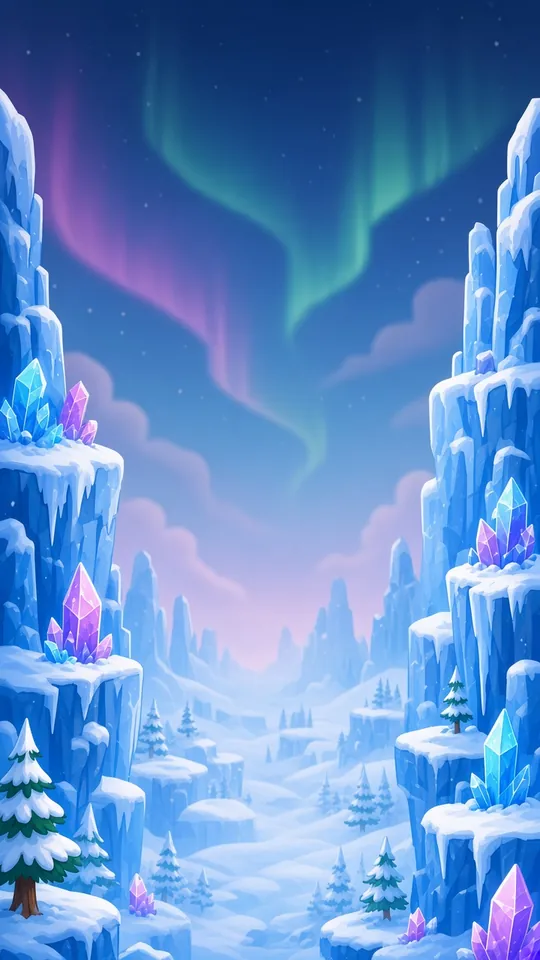
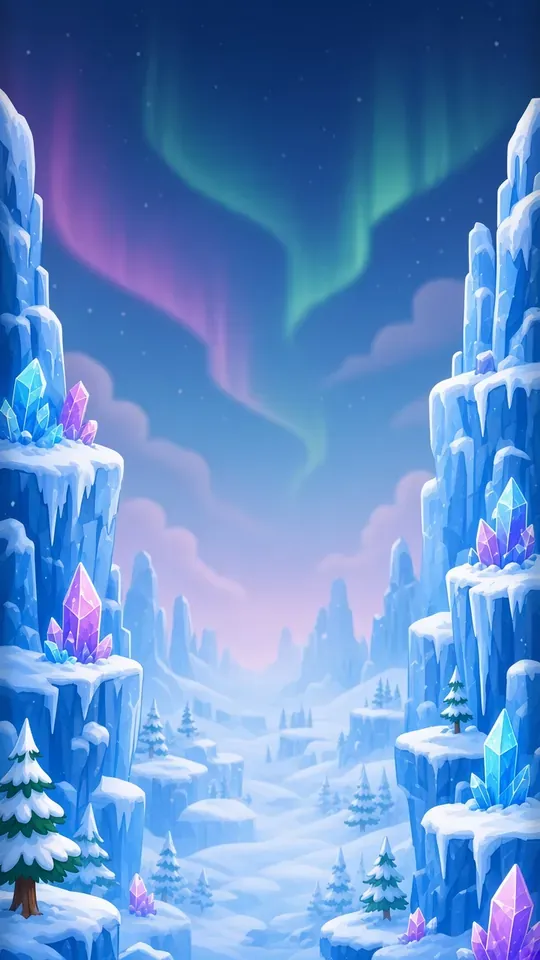
Nahraď prostredia art packom v2.
Kryštály sú bez stromčekov, dúha má ploché pásy a plošiny clouds, hell, candy, gold a rainbow majú vlastný obrys alebo spoj. Všetky pozadia majú jemnú bočnú vinetáciu.

diff --git a/assets/art-pack/envs-MANIFEST.md b/assets/art-pack/envs-MANIFEST.md
@@ -3,12 +3,14 @@
 Sada pozadí a plošín pre 14 prostredí. **Neintegrované do repa** — integráciu robí Tomáš/Bob.
 
 ## Canvas / použitie
+
 - Herný canvas: **480×720** (2:3).
 - Pozadie: kresliť `cover`, **zarovnanie ku spodku**. Asset je 9:16 (540×960) → horných ~16 % sa orezá; dôležité detaily sú v spodných ~80 %.
 - Steny po bokoch kreslí hra (~20 px z 480). Stred pozadia je voľný (bez plošín/postáv/UI).
 - Plošina: kresliť cca **24–40 px vysokú** (zachovať pomer 512×128). Šírky v hre ~56–420 px na canvase.
 
 ## 9-slice plošiny
+
 - Ľavá čiapka: **56 px**
 - Pravá čiapka: **56 px**
 - Stredný pás: **400 px** (pri naťahovaní dlaždicovať/zrkadlovo opakovať stredný pás).
@@ -17,44 +19,48 @@ Sada pozadí a plošín pre 14 prostredí. **Neintegrované do repa** — integr
 
 | deco | prostredie | pozadie | KB | plošina | KB |
 |---|---|---|---:|---|---:|
-| `forest` | Les | `bg-forest.webp` 540×960 | 41.3 | `plat-forest.png` 512×128 | 63.1 |
-| `ice` | Ľadové hory | `bg-ice.webp` 540×960 | 45.9 | `plat-ice.png` 512×128 | 59.3 |
-| `hell` | Peklo | `bg-hell.webp` 540×960 | 25.6 | `plat-hell.png` 512×128 | 59.5 |
-| `space` | Vesmír | `bg-space.webp` 540×960 | 42.1 | `plat-space.png` 512×128 | 50.3 |
-| `desert` | Púšť | `bg-desert.webp` 540×960 | 26.0 | `plat-desert.png` 512×128 | 49.1 |
-| `ocean` | Oceán | `bg-ocean.webp` 540×960 | 56.3 | `plat-ocean.png` 512×128 | 65.6 |
-| `cave` | Jaskyňa | `bg-cave.webp` 540×960 | 33.0 | `plat-cave.png` 512×128 | 55.0 |
-| `clouds` | Oblaky | `bg-clouds.webp` 540×960 | 23.7 | `plat-clouds.png` 512×128 | 27.4 |
-| `swamp` | Bažina | `bg-swamp.webp` 540×960 | 27.4 | `plat-swamp.png` 512×128 | 69.3 |
-| `city` | Nočné mesto | `bg-city.webp` 540×960 | 27.4 | `plat-city.png` 512×128 | 34.9 |
-| `candy` | Cukríkovo | `bg-candy.webp` 540×960 | 35.8 | `plat-candy.png` 512×128 | 53.2 |
-| `rainbow` | Dúhová veža | `bg-rainbow.webp` 540×960 | 46.1 | `plat-rainbow.png` 512×128 | 29.2 |
-| `crystal` | Kryštály | `bg-crystal.webp` 540×960 | 33.2 | `plat-crystal.png` 512×128 | 51.3 |
-| `gold` | Zlatý vrch | `bg-gold.webp` 540×960 | 35.4 | `plat-gold.png` 512×128 | 48.4 |
+| `forest` | Les | `bg-forest.webp` 540×960 | 39.6 | `plat-forest.png` 512×128 | 63.1 |
+| `ice` | Ľadové hory | `bg-ice.webp` 540×960 | 43.8 | `plat-ice.png` 512×128 | 59.3 |
+| `hell` | Peklo | `bg-hell.webp` 540×960 | 24.0 | `plat-hell.png` 512×128 | 58.8 |
+| `space` | Vesmír | `bg-space.webp` 540×960 | 38.9 | `plat-space.png` 512×128 | 50.3 |
+| `desert` | Púšť | `bg-desert.webp` 540×960 | 24.3 | `plat-desert.png` 512×128 | 49.1 |
+| `ocean` | Oceán | `bg-ocean.webp` 540×960 | 53.8 | `plat-ocean.png` 512×128 | 65.6 |
+| `cave` | Jaskyňa | `bg-cave.webp` 540×960 | 30.1 | `plat-cave.png` 512×128 | 55.0 |
+| `clouds` | Oblaky | `bg-clouds.webp` 540×960 | 22.3 | `plat-clouds.png` 512×128 | 47.2 |
+| `swamp` | Bažina | `bg-swamp.webp` 540×960 | 25.0 | `plat-swamp.png` 512×128 | 69.3 |
+| `city` | Nočné mesto | `bg-city.webp` 540×960 | 25.9 | `plat-city.png` 512×128 | 34.9 |
+| `candy` | Cukríkovo | `bg-candy.webp` 540×960 | 33.2 | `plat-candy.png` 512×128 | 53.8 |
+| `rainbow` | Dúhová veža | `bg-rainbow.webp` 540×960 | 12.4 | `plat-rainbow.png` 512×128 | 28.8 |
+| `crystal` | Kryštály | `bg-crystal.webp` 540×960 | 37.7 | `plat-crystal.png` 512×128 | 51.3 |
+| `gold` | Zlatý vrch | `bg-gold.webp` 540×960 | 31.9 | `plat-gold.png` 512×128 | 48.5 |
 
-**Celková váha sady (14 bg + 14 plat + preview): ~1425 KB**
-
-## Poznámky k témam plošín
-- `forest`: tráva + hlina (tráva **iba tu**)
-- `ice`: sneh + modrý ľad + cencúle, bez trávy
-- `hell`: čierny kameň + tečúca láva
-- `space`: kov/asteroid + svietiace kryštály
-- `desert`: pieskovec + piesok navrchu
-- `ocean`: koral/mokrý kameň + riasy + perly
-- `cave`: skala + svietiace huby/mach (bez trávnika)
-- `clouds`: nadýchaná oblačná doska
-- `swamp`: blato + mach + lekno/trsť
-- `city`: betón + neónový pásik
-- `candy`: ružová poleva / cukrová torta
-- `rainbow`: sklenená dúhová doska
-- `crystal`: tyrkysový kryštalický blok
-- `gold`: zlaté tehly + trblietky
+**Celková váha sady (14 bg + 14 plat + preview): ~1438 KB**
 
 ## Preview
+
 - `preview-contact-sheet.jpg` — 7×2 mriežka, na každom pozadí plošiny ≈140 a ≈90 px.
 
-## Kvalita / slabšie miesta
-- `crystal` pozadie: teal kryštály OK, model občas pridá snežné stromčeky (vizuálne blízke `ice`); pri ďalšom kole by sa hodil čistejší gem-mine bez stromov.
-- `rainbow` vs `crystal`: dúha je fialovo-ružová so sklenenými stĺpmi; crystal je tyrkysový — rozlíšiteľné, ale nie 100 % „sklenené dúhové pásy“.
-- Plošiny `swamp`/`ocean`/`forest` mierne nad ideálom 60 KB (63–69 KB) kvôli detailu + alfe.
-- Pri 9-slice naťahovaní zrkadlovým dlaždicovaním môžu byť na širokých plošinách viditeľné jemné švy (najmä hell/candy) — riešenie pri integrácii: menší tile strip alebo soft blend.
+## v2 zmeny (2026-11-09)
+
+Záloha v1: `/workspace/trisy-art-pack/envs-v1-backup/`
+
+### Zmenené súbory
+| súbor | rozmery | KB | zmena |
+|---|---|---:|---|
+| `bg-crystal.webp` | 540×960 | 37.7 | čistá kryštálová baňa bez stromčekov + vinetácia |
+| `bg-rainbow.webp` | 540×960 | 12.4 | čisté ploché dúhové pásy + vinetácia |
+| `plat-clouds.png` | 512×128 | 47.2 | tmavomodrý obrys (aj vrch), blue-gray deck |
+| `plat-hell.png` | 512×128 | 58.8 | soft-blend cap|mid + mirror edge |
+| `plat-candy.png` | 512×128 | 53.8 | soft-blend cap|mid + mirror edge |
+| `plat-rainbow.png` | 512×128 | 28.8 | nový asset + soft-join |
+| `plat-gold.png` | 512×128 | 48.5 | soft-blend cap|mid |
+| `bg-*.webp` (všetkých 14) | 540×960 | — | jemná bočná vinetácia ~4 % šírky k pixel stenám |
+| `preview-contact-sheet.jpg` | — | 260.2 | aktualizovaný náhľad |
+
+### Čo ostalo slabšie
+- `plat-hell` / `plat-candy`: pri širokom 9-slice stále môžu byť jemné spoje na cap|mid (zjemnené, nie 100 % neviditeľné).
+- `plat-rainbow`: horizontálny gradient + 9-slice = pri spojoch citlivý na farebný skok.
+- `bg-rainbow`: ploché pásy OK; nie je maľovaný v rovnakom brush štýle ako ostatné AI bg (procedurálne).
+- `plat-clouds`: kontrast výrazne lepší; na veľmi bielom pozadí stále overiť v hre.
+
+Záloha v1: `/workspace/trisy-art-pack/envs-v1-backup/`
